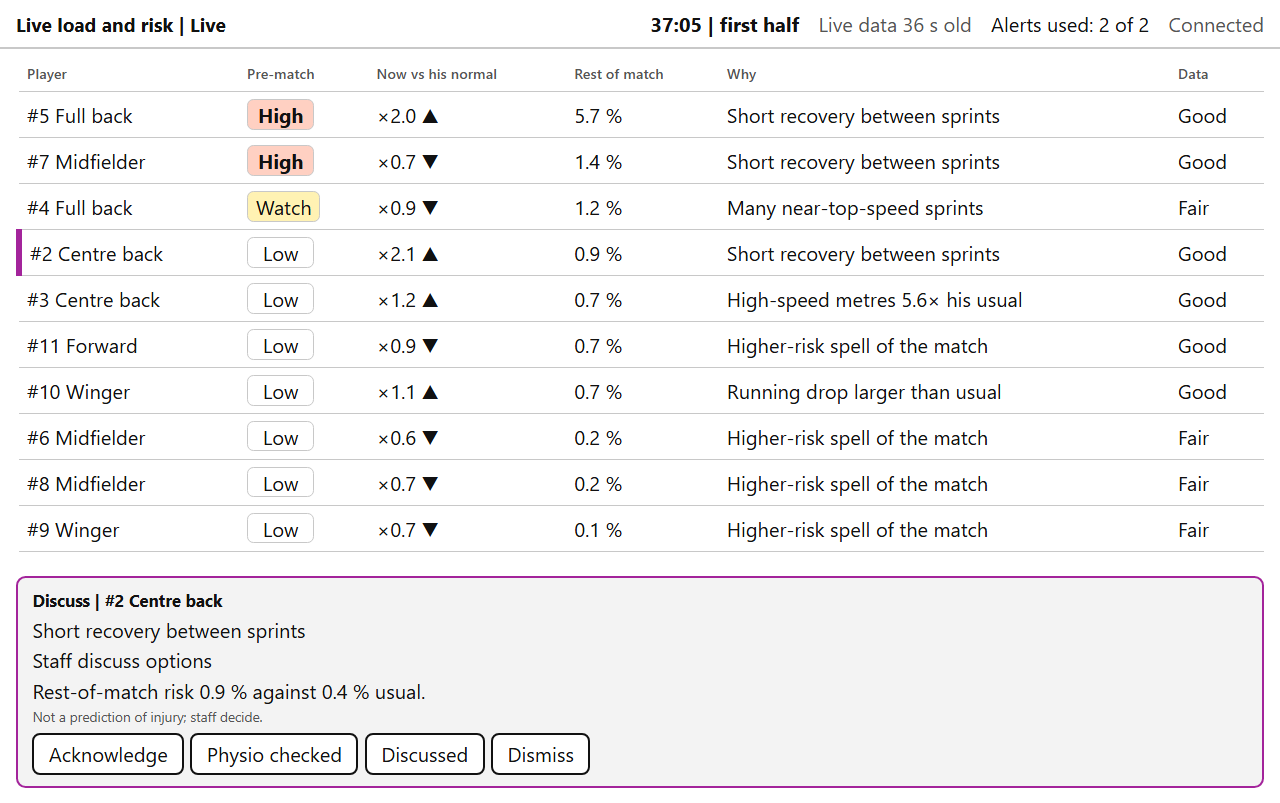
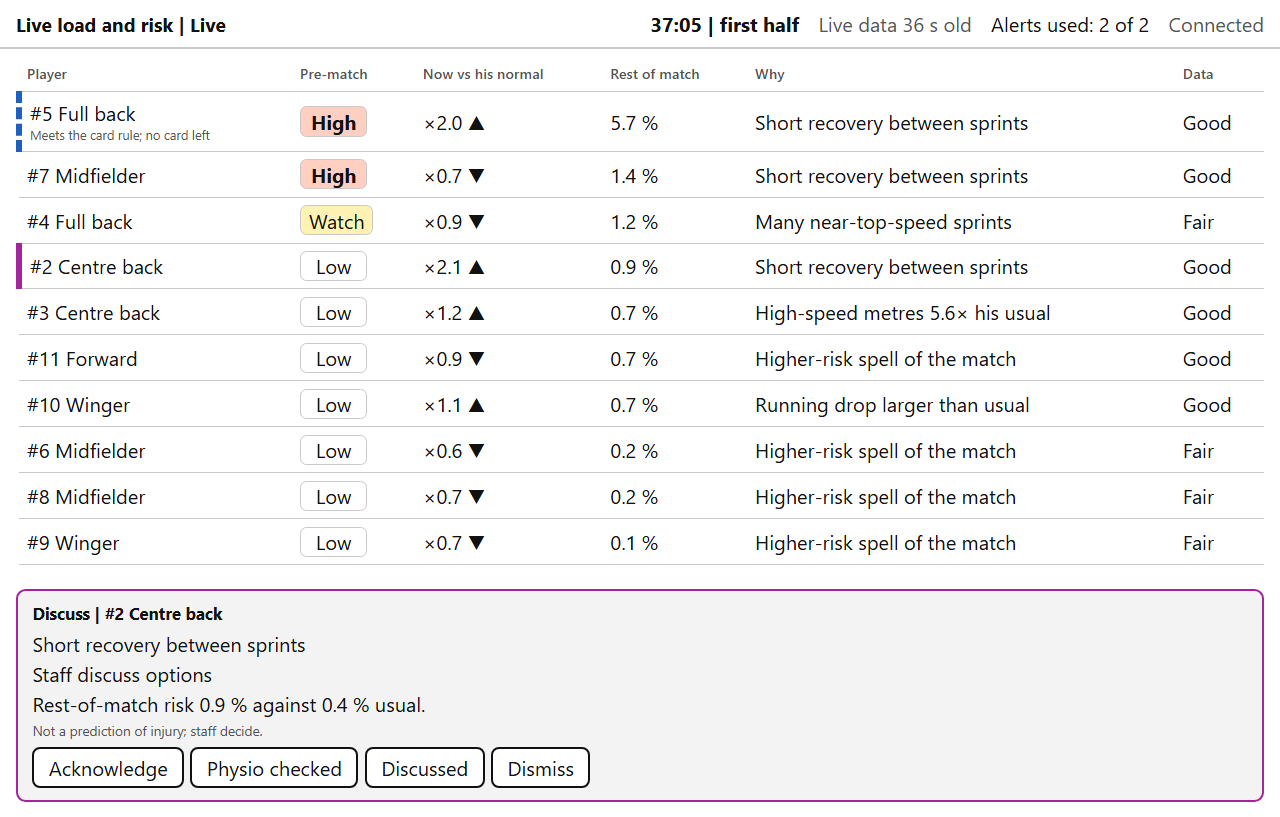
Lead the README with the bench screen and what the test proves

diff --git a/README.md b/README.md
@@ -10,21 +10,25 @@ risk for the coming week; that estimate is this tool's starting point at kick-of
 
 **What is built:** the full match-day pipeline, from tracking ingest and a 10-second feature
 engine to a calibrated live hazard model, budgeted alert cards and a tablet app for the bench.
-It runs offline on one machine, is replayable end to end with injected faults, is covered by 204
+It runs offline on one machine, is replayable end to end with injected faults, is covered by 205
 automated tests, and is judged by an evaluation plan fixed before the results were seen.
 
 **Intended purpose.** Research and decision support for qualified staff. It shows risk; staff
 decide.
 
 <p align="center">
-  <img src="docs/img/bench_illustration.png" alt="Illustration of a club bench at night: staff on the bench, a tablet on a stand showing a live table of players with an alert card, and the pitch beside it" width="820">
+  <img src="docs/img/match/live_check.png" alt="Bench screen during a replayed synthetic match: one row per player, sorted by risk for the rest of the match, with a Check card for #2 Centre back at the bottom" width="820">
+  <br>
+  <sub>The bench screen at 34:05 of a replayed synthetic match: a Check card has just opened for #2 Centre back.</sub>
 </p>
 
 ## The result in one minute
 
-On two held-out synthetic seasons (30,991 fifteen-minute stretches of play, 325 non-contact
-injuries), the riskiest tenth of stretches had an injury rate **14 times** that of the safest
-tenth:
+On synthetic seasons with a known effect planted in the running data, the tool found it: it
+expected 316 injuries against 325 observed, and with 1.5 cards per team per match it put 8.6 %
+of injuries into 2.3 % of playing time (3.8 times chance). All four tests fixed in advance
+passed. The scores come from two held-out seasons: 30,991 fifteen-minute stretches of play and
+325 non-contact injuries.
 
 | Stretches ranked by the tool's risk | Injury rate per 15 minutes | Injuries expected by the tool / observed |
 |---|---|---|
@@ -37,9 +41,9 @@ tenth:
   <img src="docs/img/calibration.png" alt="Bars of expected injuries and dots of observed injuries for ten groups of stretches ordered by predicted risk; the dots follow the bars, rising from 6 to 83" width="760">
 </picture>
 
-With the bench limited to 1.5 alert cards per team per match, the flagged stretches (2.3 % of
-playing time) held 8.6 % of the injuries, 3.8 times their share. All four tests fixed in advance
-passed. Full results: [docs/RESULTS.md](docs/RESULTS.md).
+The spread between the riskiest and safest stretches mostly reflects how much risk variation
+we planted, so read it as a check that the ranking is in the right order and the totals match,
+not as a size to expect on real players. Full results: [docs/RESULTS.md](docs/RESULTS.md).
 
 **Why synthetic.** No public dataset has both live player tracking and the minute of each
 injury; clubs hold that data. So the test uses seasons we generated with a known effect planted
@@ -64,19 +68,16 @@ card asks only for a cheap action.
 - **Spread the cards across the match:** two fixes (D-029, D-030) moved the first card from 3:00
   to 10:00 or later in six replayed matches, and no team now spends both cards by 10:00 (8 of 12
   did before). All 24 cards still came before half-time, mostly on "short recovery between
-  sprints"; that pattern is next.
+  sprints", and the replays show why: that feature's first-half norms are too tight (spread of
+  its player-relative scores 1.18 to 1.21 instead of about 1). Rebuilding them is the next fix.
 - **Align the weekly input:** the weekly model predicts any time-loss injury (its public source
   cannot tell contact from non-contact) while this tool expects non-contact risk; a club's data
   calibrates the conversion.
 - **Connect a live feed:** the tool reads recorded files and replays matches today; a live
-  GPS-vest or stadium feed adapter is the remaining piece. Smaller display issues are listed in
+  GPS-vest or stadium feed adapter is the remaining piece. A smaller display issue is listed in
   the [replay walkthrough](docs/REPLAY_WALKTHROUGH.md#known-issues-seen-in-this-replay).
 
-## What it looks like
-
-<p align="center">
-  <img src="docs/img/match/live_check.png" alt="Bench screen during a replayed synthetic match: one row per player, sorted by risk for the rest of the match, with a Check card for #2 Centre back at the bottom" width="820">
-</p>
+## Reading the screen
 
 One row per player, riskiest first: his pre-match band, how the live data moves his risk against
 his own normal (×1.8 means 1.8 times his usual), his risk for the rest of the match, the main
@@ -106,16 +107,16 @@ Top leagues already put live technology on the bench. In 2023 LaLiga gave every 
 for multi-angle video review, so staff can act faster after an injury
 ([announcement](https://www.laliga.com/en-GB/news/laliga-launches-video-review-system-a-sophisticated-system-that-will-help-the-technical-teams-on-the-bench-to-act-more-effectively-in-the-event-of-injury-in-real-time)),
 and its [Mediacoach](https://newsletter.laliga.es/global-futbol/mediacoach-laliga-technology-minimise-injuries-football)
-service shows live distance and speed for every player. Clubs also use
+service gives staff live physical data for every player. Clubs also use
 [Firstbeat Sports](https://www.firstbeat.com/en/blog/team-heart-rate-monitoring/) for live heart
 rate and [Zone7](https://svexa.com/solutions/zone7-team-sports-injury-risk-and-load-planning/)
-for weekly injury-risk forecasts.
+for daily injury-risk scores and load planning.
 
-Video review helps after something has happened; live tracking shows how much a player has run
-but leaves staff to judge what it means for him; weekly forecasts look days ahead. This project
-joins them: during the match, against each player's own normal, as a risk for the rest of the
-game with its range and data age, with a strict card budget, and tested openly against rules
-fixed in advance.
+What this project adds is the comparison and the discipline around it. Live load is measured
+against each player's own normal for that stage of the match rather than against fixed
+thresholds, turned into a risk for the rest of the game with its range and the age of its data,
+and passed to the bench through a strict card budget tied to agreed actions. The method, the
+code and the pre-registered test results are all open.
 
 ## For developers
 

diff --git a/docs/REPLAY_WALKTHROUGH.md b/docs/REPLAY_WALKTHROUGH.md
@@ -49,8 +49,9 @@ using another card from the budget. The head coach's view shows only the card an
 <img src="img/match/coach.png" alt="Coach view at 37:05: one card, Discuss, #2 Centre back, Short recovery between sprints, no numbers" width="820">
 
 At the top of the same table, #5 Full back (pre-match High) was at ×2.0 with 5.7 % for the rest
-of the match. He met the Check rule from 37:00, but both of the team's cards were already in use,
-so no card opened for him: the first one had gone to #7 Midfielder at 12:00.
+of the match. He met the Check rule from 37:00, but both of the team's cards were already in use
+(the first had gone to #7 Midfielder at 12:00), so instead of a card his row carries a dashed
+marker and the line "Meets the card rule; no card left".
 
 **39:50, old data is greyed.** #10 Winger's newest data was 61 seconds old (one of the injected
 blackouts). His row is greyed and the Data column shows the age.
@@ -69,13 +70,14 @@ he plays all 45 minutes or only 20. For #5 Full back: 2.1 % over 45 minutes, 0.8
 
 **Second-half kick-off, no live data yet.** Fifteen seconds into the second half, nothing from
 the second half had arrived (the data runs 30 seconds behind). Rather than carry first-half
-figures into the second half, the screen hides every figure and says when the data stopped.
+figures into the second half, the screen hides every figure and says when the data stopped,
+while the header clock already follows the second half (45:15).
 
 <img src="img/match/live_stale.png" alt="Screen with a banner Data stale since 49:00; every figure hidden and every row marked Stale" width="820">
 
 **63:00, no card left.** #4 Full back rose to ×3.09 his normal at 63:00 (2.22 % for the rest of
-the match) and stayed at ×2.5 or more until 68:00. Both cards had been used in the first half, so no
-card opened; he stayed at the top of the table.
+the match) and stayed at ×2.5 or more until 68:00. Both cards had been used in the first half, so
+he got the no-card marker at the top of the table.
 
 **After the match.** Both cards with their times and the staff decisions (entered by hand during
 the replay), and each player's highest figure against his normal.
@@ -84,15 +86,14 @@ the replay), and each player's highest figure against his normal.
 
 ## Known issues seen in this replay
 
-- **Cards still cluster in the first half.** Across six replayed matches (seeds 211 to 216), all
-  24 cards opened before half-time, the earliest at 10:00, most on "short recovery between
-  sprints" soon after that figure first becomes available. Before D-029 and D-030 the first card
-  came as early as 3:00, and 8 of the 12 teams had spent both cards by 10:00.
+- **Cards cluster in the first half.** Across six replayed matches (seeds 211 to 216), all 24
+  cards opened before half-time, the earliest at 10:00, most on "short recovery between
+  sprints". Before D-029 and D-030 the first card came as early as 3:00, and 8 of the 12 teams
+  had spent both cards by 10:00. The player-relative scores of that feature point to the cause:
+  in the first half their spread is wider than it should be (standard deviation 1.18 at 10 to 13
+  minutes and 1.21 at 30 to 45 minutes, against 0.93 to 1.00 in the second half) and leans
+  towards short recovery (mean -0.12 to -0.16, against +0.09 to +0.10). The first-half norms of
+  that feature are too tight; rebuilding them is the next fix.
 - **"N× his usual" reads high.** The Why column compares the current value with a typical value
   on a log scale, so it can read high for a player at his normal overall ("High-speed metres
   4.5× his usual" at ×1.0 in the 34:05 screen).
-- **No marker after the budget is used.** Players who qualify once both cards are used should
-  get a subtle marker in the table (docs/06_UI_SPEC.md §3); the alert logic computes it but the
-  screen does not show it yet (#5 Full back at 37:00, #4 Full back at 63:00).
-- **Header clock at the second-half kick-off.** Until the first second-half data arrives, the
-  header clock counts on from the last first-half update ("49:14, first half" above).

diff --git a/CHANGELOG.md b/CHANGELOG.md
@@ -31,6 +31,8 @@
   open an alert card in the first minutes of a player's match (D-029).
 - A card, goal or stoppage, which lifts every player at once, no longer opens alert cards and
   spends the budget; cards open only on a player-specific reason (D-030).
+- Bench app: players who meet the card rule after the budget is spent get a marker instead of
+  a card, and the header clock follows the second half from its kick-off.
 - Short README with the result first, the limitations next and a link to the weekly model;
   the bench guide, a replayed match moment by moment, the synthetic results and what a club
   needs are in docs/BENCH_GUIDE.md, docs/REPLAY_WALKTHROUGH.md, docs/RESULTS.md and

diff --git a/docs/UI_CHECKLIST.md b/docs/UI_CHECKLIST.md
@@ -37,8 +37,8 @@ Checked 2026-10-23.
   record to the log store. Evidence: `docs/ui/post_match.png` ("Physio checked"); covered by
   an API test.
 - [x] Header shows the budget ("Alerts used: 1 of 2"); qualifying players beyond the budget get
-  a subtle marker, no card. Evidence: header in `docs/ui/live_grey.png`; marker covered by
-  alert-logic tests.
+  a subtle marker, no card. Evidence: header in `docs/ui/live_grey.png`; marker in
+  `docs/img/match/live_discuss.png` (#5 Full back); covered by alert-logic and payload tests.
 
 ## Staleness and quality (docs/06 §4)
 
